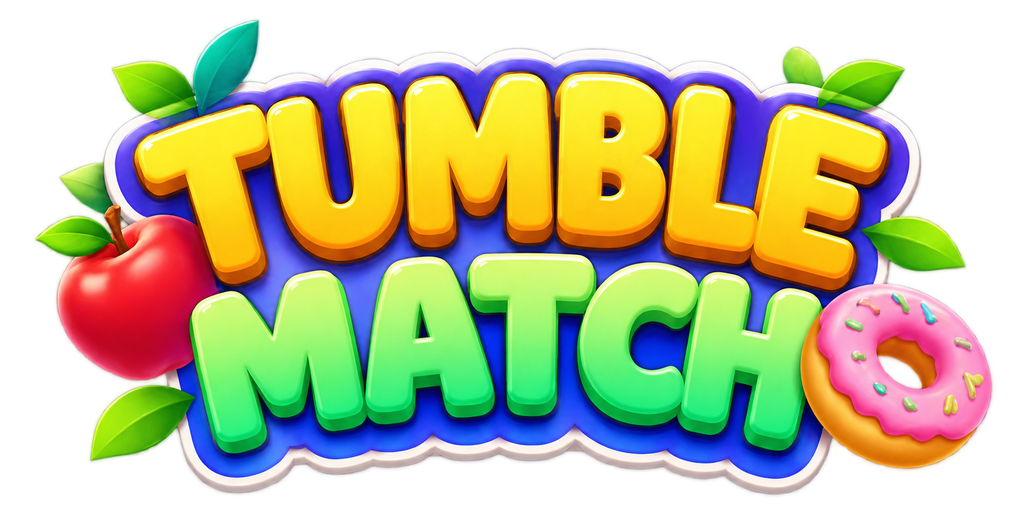
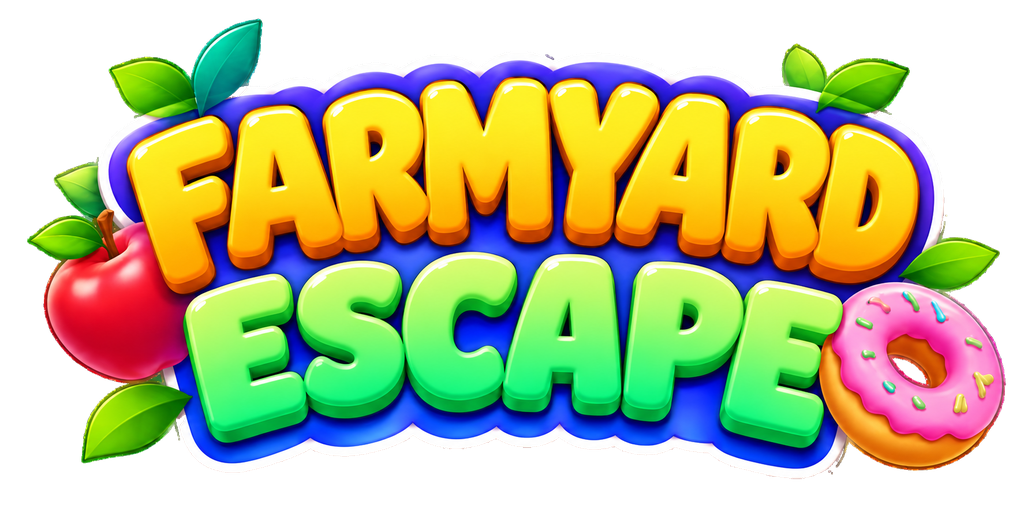
更新Farmyard Escape标志并统一激励视频广告位

diff --git a/assets/app-builtin/app-model/expansion/platform/TikTokConfig.ts b/assets/app-builtin/app-model/expansion/platform/TikTokConfig.ts
@@ -7,13 +7,13 @@ export const TikTokConfig = {
     /** 用户明确指定的广告位；空值代表未开通，不借用其他用途广告位。 */
     rewardedAds: {
         /** 消除道具激励广告。 */
-        eliminate: 'ad7683069395916933127',
+        eliminate: 'ad7677882286272235538',
         /** 刷新道具激励广告。 */
-        shuffle: 'ad7683068205057099783',
-        /** 复活广告，等待后台配置。 */
-        revive: '',
+        shuffle: 'ad7677882286272235538',
+        /** 用户提供的复活激励广告，完整观看后继续当前关卡。 */
+        revive: 'ad7677882286272235538',
         /** 用户提供的解锁槽位激励广告，完整观看后扩容。 */
-        'expand-slot': 'ad7683075136438388754',
+        'expand-slot': 'ad7677882286272235538',
         /** 旧版通用道具用途不再连接生产广告。 */
         prop: '',
     },

diff --git a/docs/tiktok-integration.md b/docs/tiktok-integration.md
@@ -4,9 +4,11 @@
 
 ## 已接入客户端
 
-- 消除与刷新广告位分别使用 `ad7683069395916933127`、`ad7683068205057099783`。公开 Client Key 为 `mg1swkarpsswyb0z`。
+- 消除、刷新、复活与解锁槽位统一使用用户于 2026-09-16 提供的激励视频广告位 `ad7677882286272235538`。公开 Client Key 为 `mg1swkarpsswyb0z`。
 - `TikTokRewardProvider` 每次创建新广告实例，只接受关闭回调 `isEnded === true`；展示 Promise 完成不发奖。取消、异常、缺少广告位与超时不发奖；解除监听并防重复结算。
-- `RewardGate` 保留请求编号、用途、来源和页面代次检查。TikTok 内不走开发广告模拟；复活暂无广告位，返回不可用。解锁槽位使用 `ad7683075136438388754`，仅完整观看后扩容，取消不解锁。
+- `RewardGate` 保留请求编号、用途、来源和页面代次检查。TikTok 内不走开发广告模拟；复活与解锁槽位仅完整观看后发奖，取消不发奖。旧版通用道具用途 `prop` 保持停用。
+- 当前未接入插页广告；用户指定的插页广告位为 `ad7677881962798794760`，后续接入时使用，本次不增加广告触发点。
+- 2026-09-16 验证：通过 Node 读取实际配置，确认四个启用用途均使用新 ID、旧版 `prop` 仍停用；检索业务源码未发现插页广告调用，本次变更的 `git diff --check` 通过。尚未进行 TikTok 真机广告拉取与发奖验收。
 - `TikTokLifecycle` 连接宿主前后台、广告暂停与原生短震。后台与广告两种暂停分别记录，避免广告结束但游戏仍在后台时恢复主循环。`AppInit` 仅直接上报宿主加载进度，禁止静态引用业务分包；`TikTokStartup` 在首页/游戏页面进入时连接业务能力。
 - `PlatformStorage` 接管语言、设置、关卡、主题、道具的本地存档；保持原存档键。原生存储失败不能回退到另一份浏览器存档。这不是云存档。
 - `TikTokLogin` 负责合并登录、取一次性 code、后端交换、校验会话有效期。`TikTokLoginBackend` 只向自有 HTTPS 地址发送 code/Client Key。服务器地址未配置时保持游客，不假装登录成功。

diff --git a/docs/farmyard-escape-logo.md b/docs/farmyard-escape-logo.md
@@ -1,0 +1,8 @@
+# Farmyard Escape logo 更新记录
+
+- 日期：2026-09-16。
+- 替换资源：`assets/app-bundle/app-view/page/home/resources/redesign/title.png`。启动页与首页均引用该资源，保留现有 UUID 与预制体绑定。
+- 使用内置 imagegen 编辑原 logo；最终提示要求：将上行 TUMBLE 改为 FARMYARD、下行 MATCH 改为 ESCAPE，保留黄绿立体字、蓝紫底板、白描边、苹果、甜甜圈和叶片，透明背景，1024×512 像素。
+- 生成工具输出了棋盘格背景；经用户明确同意，使用本地图片处理脚本移除背景及甜甜圈孔内棋盘格，并适配原尺寸。
+- 已验证：文字拼写与透明边缘人工检查，PNG 为 1024×512 RGBA，透明度覆盖 0–255；启动页与首页预制体引用同一图片 UUID。
+- 未完成边界：尚未进行 Creator 运行预览与 TikTok 真机显示验收。
